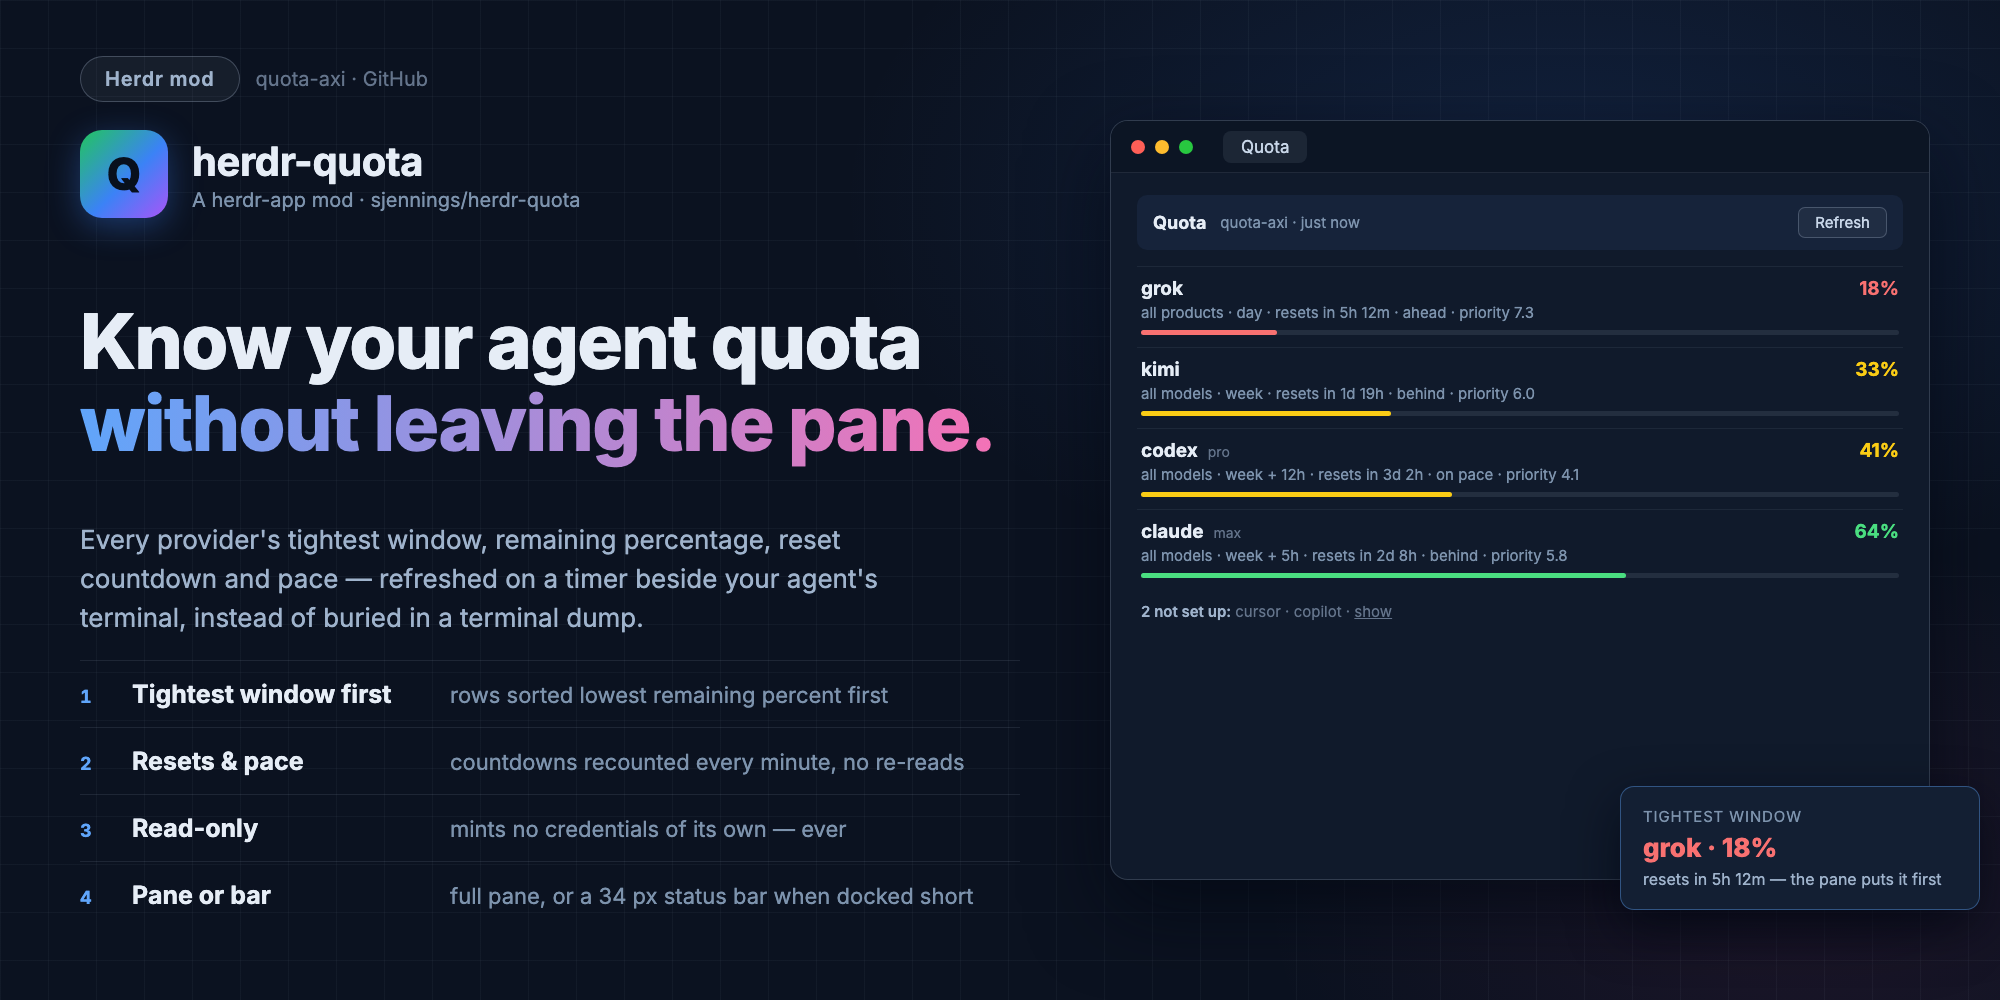
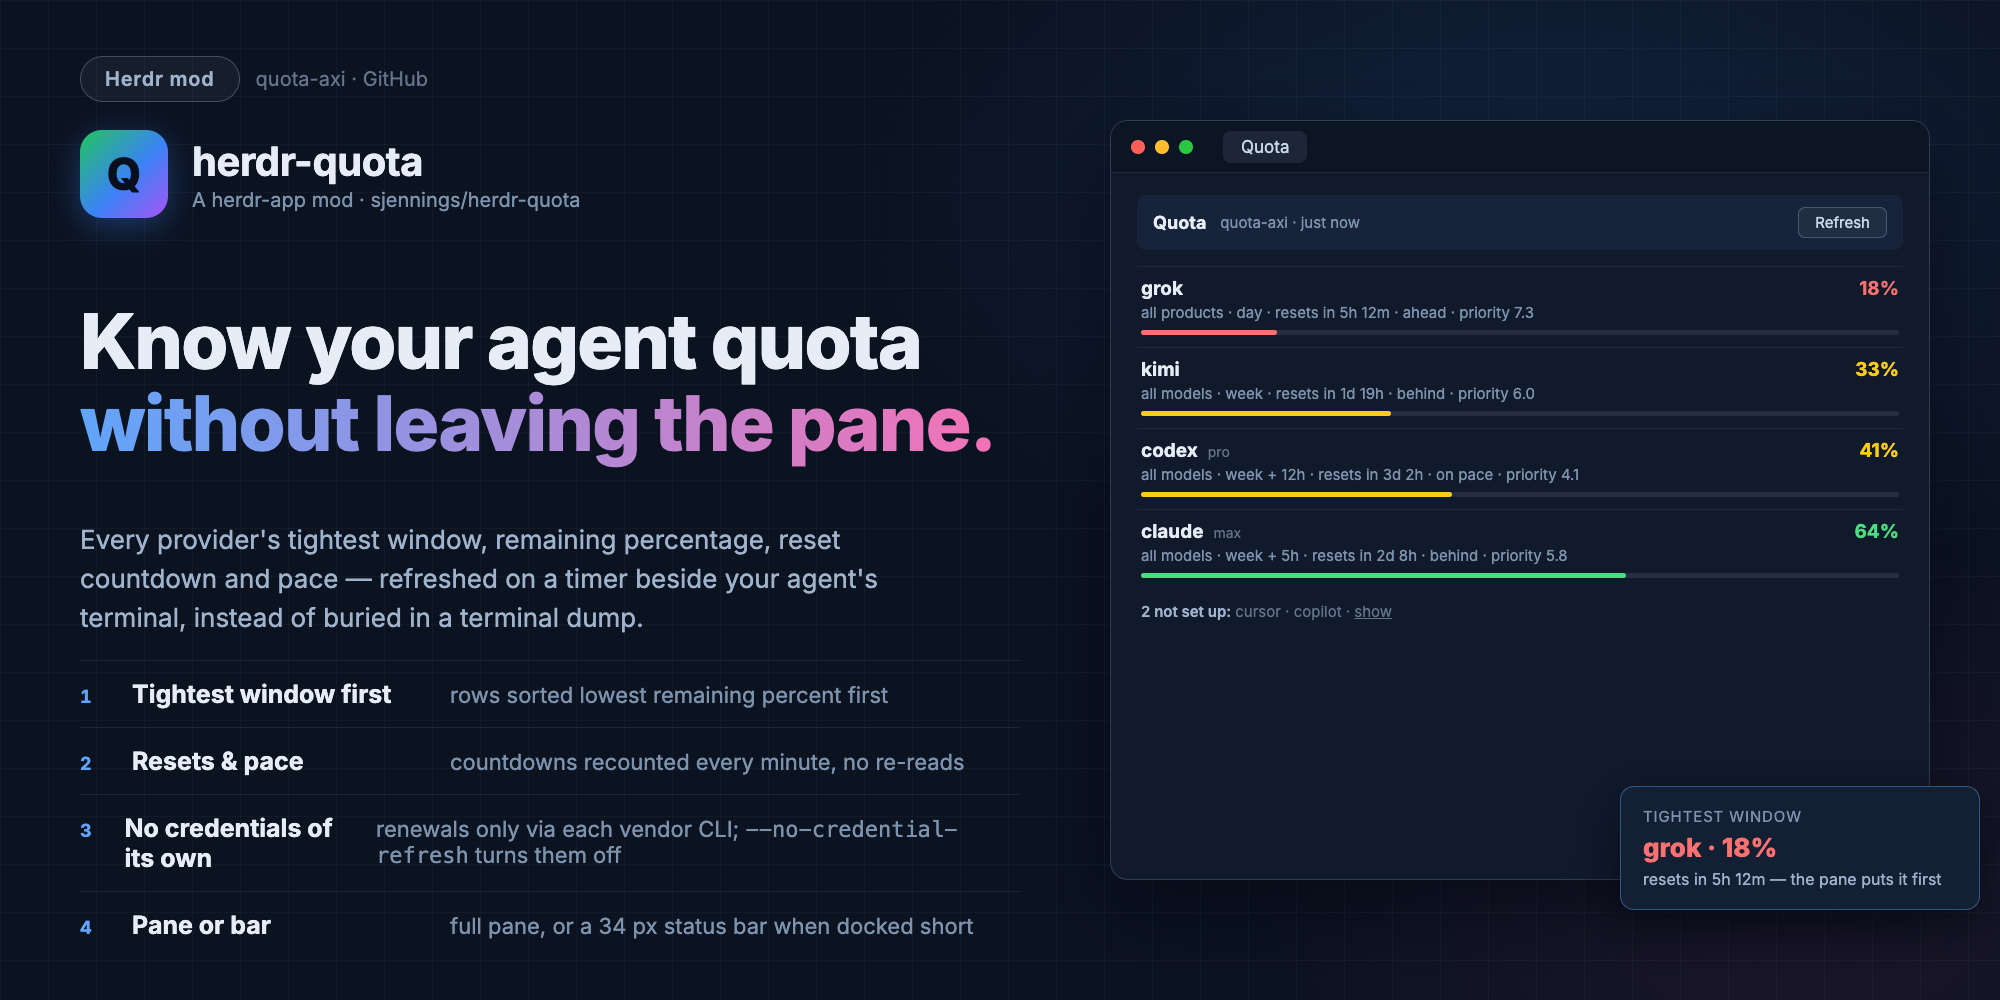
attract card: soften feature 3 to match quota-axi's actual credential behavior

Changed region(s): [[0.062, 0.806, 0.496, 0.93]]

diff --git a/docs/attract/quota-attract.html b/docs/attract/quota-attract.html
@@ -151,7 +151,7 @@
   <div class="feats">
     <div class="feat"><span class="n">1</span><span class="l">Tightest window first</span><span class="d">rows sorted lowest remaining percent first</span></div>
     <div class="feat"><span class="n">2</span><span class="l">Resets &amp; pace</span><span class="d">countdowns recounted every minute, no re-reads</span></div>
-    <div class="feat"><span class="n">3</span><span class="l">Read-only</span><span class="d">mints no credentials of its own — ever</span></div>
+    <div class="feat"><span class="n">3</span><span class="l">No credentials of its own</span><span class="d">renewals only via each vendor CLI; <span class="mono">--no-credential-refresh</span> turns them off</span></div>
     <div class="feat"><span class="n">4</span><span class="l">Pane or bar</span><span class="d">full pane, or a 34&nbsp;px status bar when docked short</span></div>
   </div>
 
